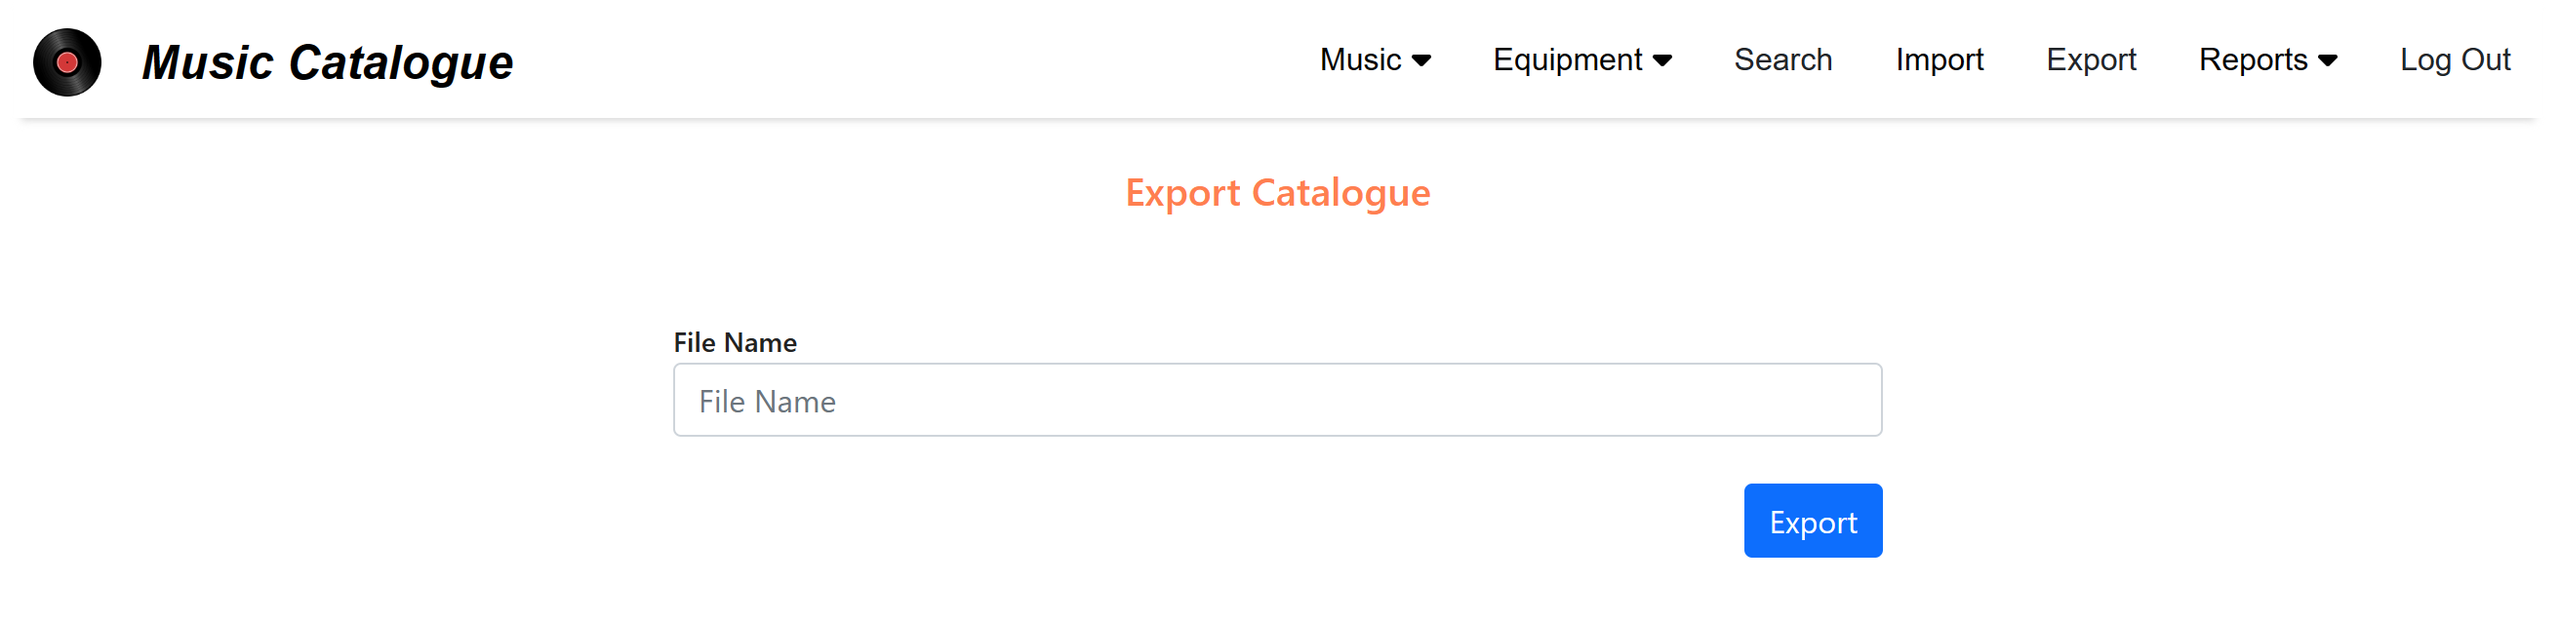
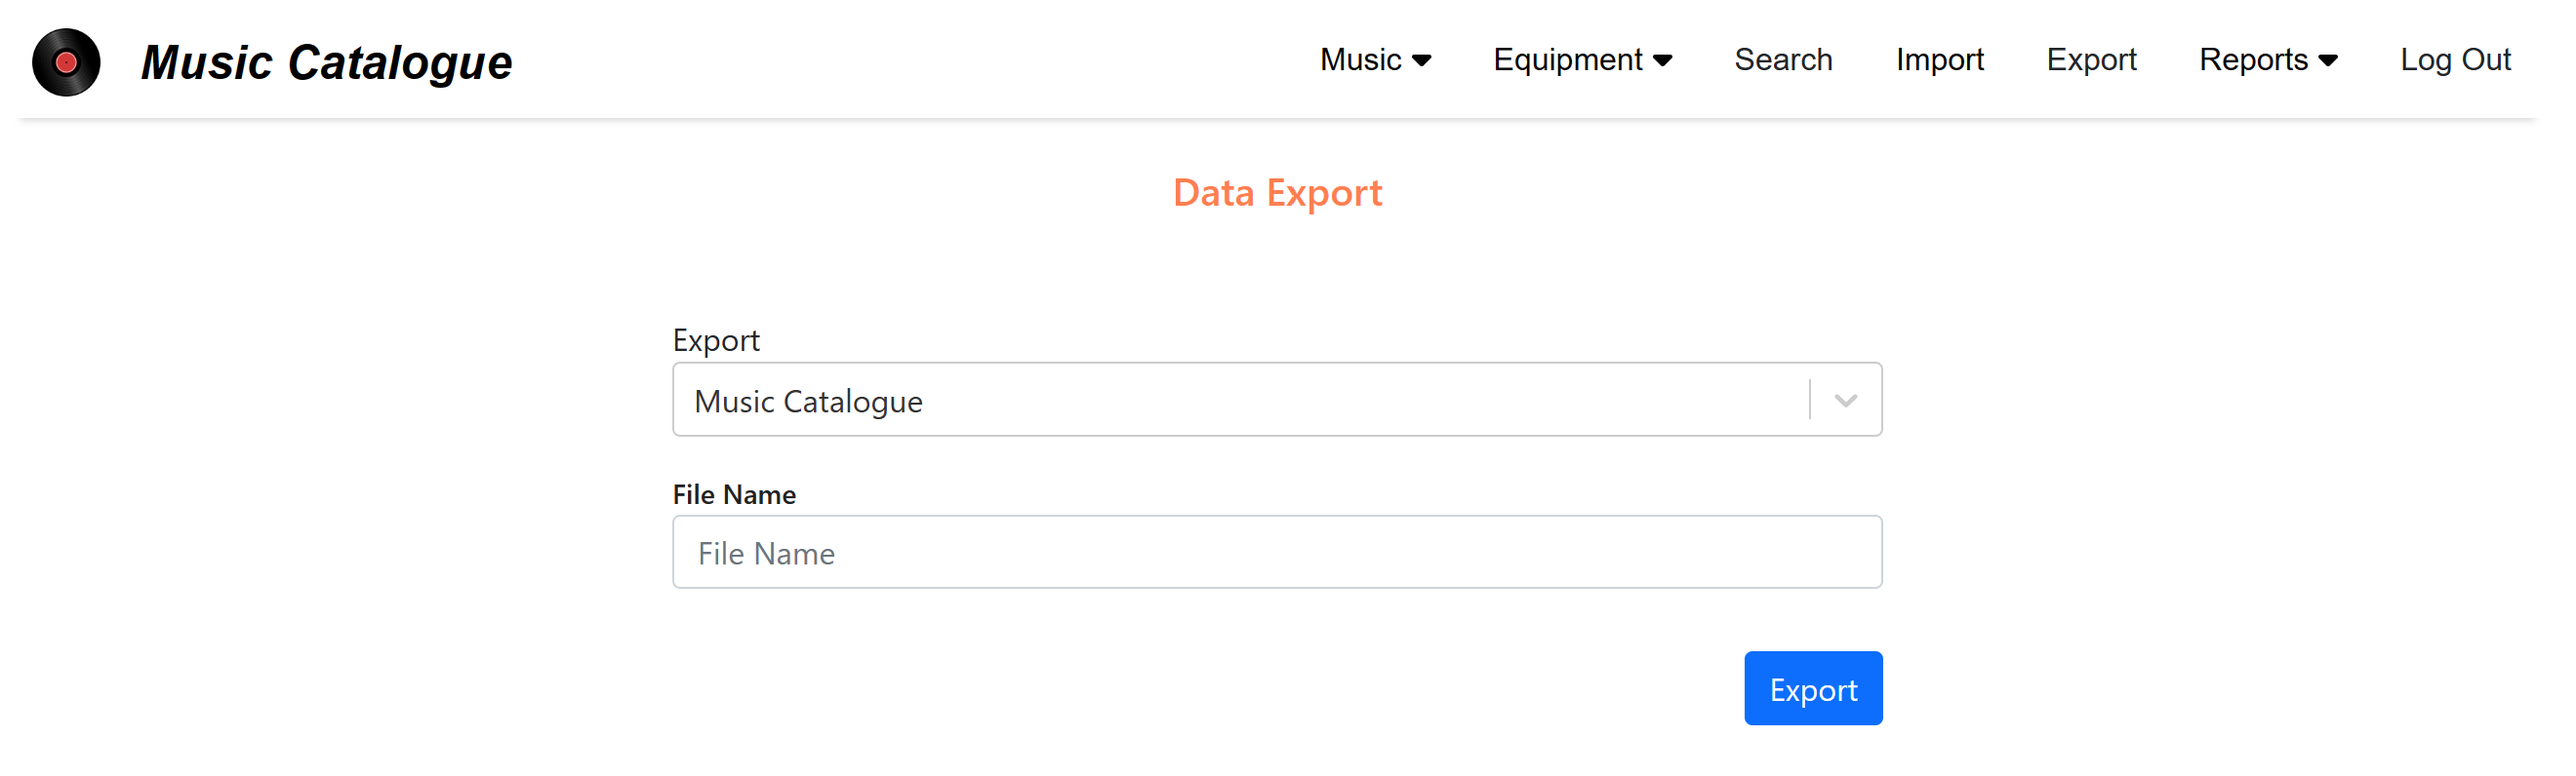
Implement equipment register export via the UI

diff --git a/src/music-catalogue-ui/components/dataexchange/exportData.js b/src/music-catalogue-ui/components/dataexchange/exportData.js
@@ -1,0 +1,113 @@
+import styles from "./export.module.css";
+import { useCallback, useState } from "react";
+import {
+  apiRequestCatalogueExport,
+  apiRequestEquipmentExport,
+} from "@/helpers/api/apiDataExchange";
+import FormInputField from "../common/formInputField";
+import Select from "react-select";
+
+/**
+ * Component to prompt for an export file name and request an export of the catalogue
+ * or equipment register
+ * @param {*} logout
+ * @returns
+ */
+const ExportData = ({ logout }) => {
+  const options = [
+    { value: "catalogue", label: "Music Catalogue" },
+    { value: "equipment", label: "Equipment Register" },
+  ];
+
+  const [exportSelection, setExportSelection] = useState(options[0]);
+  const [fileName, setFileName] = useState("");
+  const [message, setMessage] = useState("");
+  const [error, setError] = useState("");
+
+  // Callback to request an export via the API
+  const exportCallback = useCallback(
+    async (e) => {
+      // Prevent the default action associated with the click event
+      e.preventDefault();
+
+      // Clear pre-existing errors and messages
+      setMessage("");
+      setError("");
+
+      // Request an export via the API, using the export selection to choose what
+      // to export
+      let isOK = false;
+      if (exportSelection.value == "catalogue") {
+        isOK = await apiRequestCatalogueExport(fileName, logout);
+      } else {
+        isOK = await apiRequestEquipmentExport(fileName, logout);
+      }
+
+      // If all's well, display a confirmation message. Otherwise, show an error
+      if (isOK) {
+        setMessage(
+          `A background export of the ${exportSelection.label} to ${fileName} has been requested`
+        );
+      } else {
+        setError(
+          `An error occurred requesting an export of the ${exportSelection.label}`
+        );
+      }
+    },
+    [exportSelection, fileName, logout]
+  );
+
+  return (
+    <>
+      <div className="row mb-2 pageTitle">
+        <h5 className="themeFontColor text-center">Data Export</h5>
+      </div>
+      <div className={styles.exportFormContainer}>
+        <form className={styles.exportForm}>
+          <div>
+            {message != "" ? (
+              <div className={styles.exportMessage}>{message}</div>
+            ) : (
+              <></>
+            )}
+            {error != "" ? (
+              <div className={styles.exportError}>{error}</div>
+            ) : (
+              <></>
+            )}
+          </div>
+          <div className="form-group mt-3">
+            <label className={styles.equipmentEditorFormLabel}>Export</label>
+            <div>
+              <Select
+                value={exportSelection}
+                onChange={setExportSelection}
+                options={options}
+              />
+            </div>
+          </div>
+          <div>
+            <FormInputField
+              label="File Name"
+              name="fileName"
+              value={fileName}
+              setValue={setFileName}
+            />
+          </div>
+          <div className="d-grid gap-2 mt-3"></div>
+          <div className="d-grid gap-2 mt-3"></div>
+          <div className={styles.exportButton}>
+            <button
+              className="btn btn-primary"
+              onClick={(e) => exportCallback(e)}
+            >
+              Export
+            </button>
+          </div>
+        </form>
+      </div>
+    </>
+  );
+};
+
+export default ExportData;

diff --git a/src/music-catalogue-ui/helpers/api/apiDataExchange.js b/src/music-catalogue-ui/helpers/api/apiDataExchange.js
@@ -29,6 +29,33 @@ const apiRequestCatalogueExport = async (fileName, logout) => {
 };
 
 /**
+ * Request an export of the equipment register
+ * @param {*} fileName
+ * @param {*} logout
+ */
+const apiRequestEquipmentExport = async (fileName, logout) => {
+  // Create a JSON body containing the file name to export to
+  const body = JSON.stringify({
+    fileName: fileName,
+  });
+
+  // Call the API to request the export
+  const url = `${config.api.baseUrl}/export/equipment`;
+  const response = await fetch(url, {
+    method: "POST",
+    headers: apiGetPostHeaders(),
+    body: body,
+  });
+
+  if (response.status == 401) {
+    // Unauthorized so the token's likely expired - force a login
+    logout();
+  }
+
+  return response.ok;
+};
+
+/**
  * Request an export of the artist statistics report
  * @param {*} fileName
  * @param {*} isWishList
@@ -156,6 +183,7 @@ const apiRequestRetailerStatisticsExport = async (
 
 export {
   apiRequestCatalogueExport,
+  apiRequestEquipmentExport,
   apiRequestAristStatisticsExport,
   apiRequestGenreStatisticsExport,
   apiRequestMonthlySpendingExport,

diff --git a/src/music-catalogue-ui/components/componentPicker.js b/src/music-catalogue-ui/components/componentPicker.js
@@ -3,7 +3,7 @@ import ArtistList from "./artists/artistList";
 import AlbumList from "./albums/albumList";
 import TrackList from "./tracks/trackList";
 import LookupAlbum from "./search/lookupAlbum";
-import ExportCatalogue from "./dataexchange/exportCatalogue";
+import ExportData from "./dataexchange/exportData";
 import GenreStatusReport from "./reports/genreStatisticsReport";
 import JobStatusReport from "./reports/jobStatusReport";
 import AlbumPurchaseDetails from "./albums/albumPurchaseDetails";
@@ -170,7 +170,7 @@ const ComponentPicker = ({ context, navigate, logout }) => {
         />
       );
     case pages.export:
-      return <ExportCatalogue logout={logout} />;
+      return <ExportData logout={logout} />;
     case pages.artistStatisticsReport:
       return <ArtistStatisticsReport logout={logout} />;
     case pages.genreStatisticsReport:
